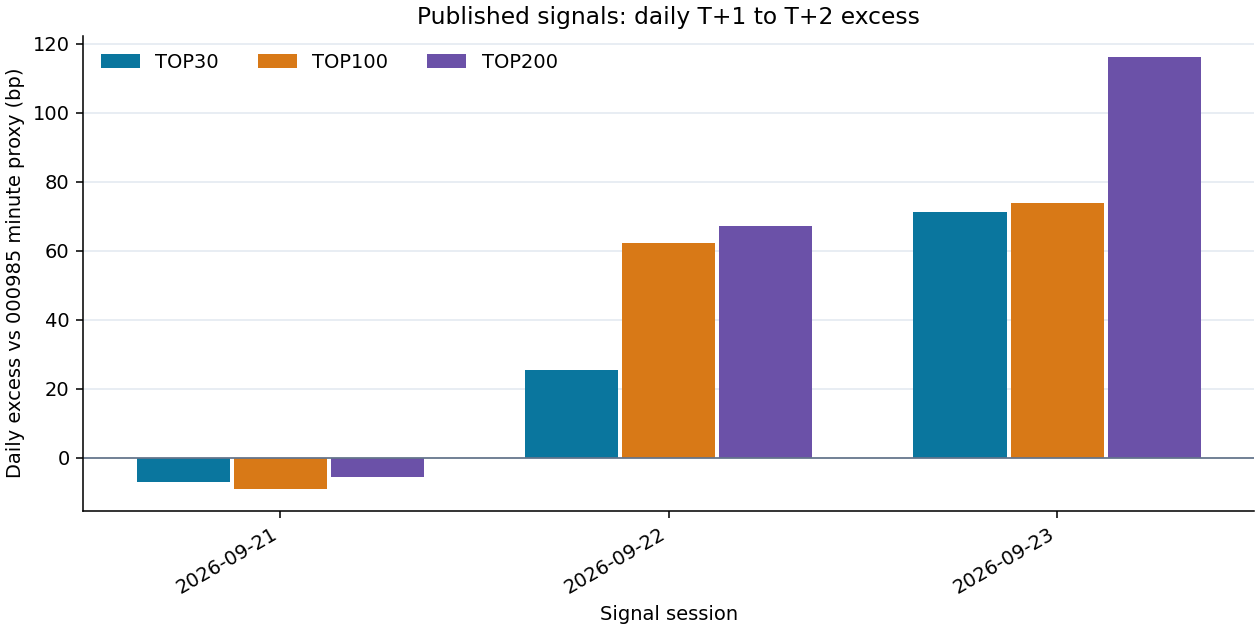
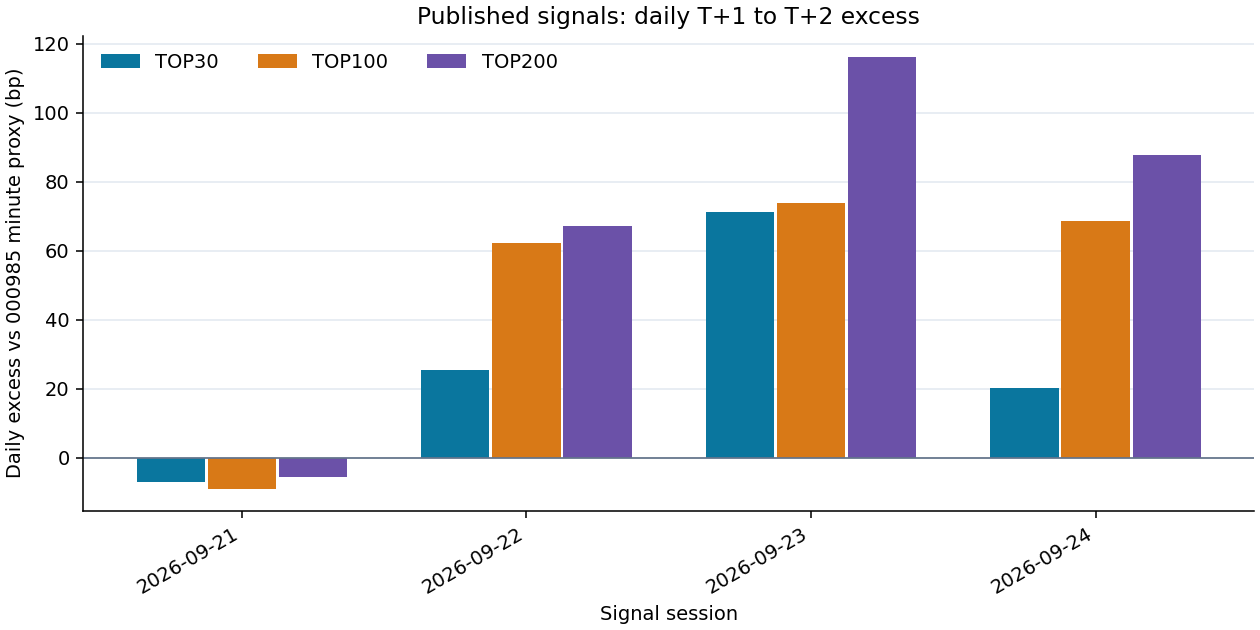
Update published signal performance through 2026-09-29

diff --git a/README.md b/README.md
@@ -17,13 +17,13 @@ CSV 编码为 UTF-8 BOM，按 `signal` 降序排列。
 <!-- PUBLIC_PERFORMANCE_START -->
 ## 已发布信号的历史表现
 
-仅统计本仓库 `signals/YYYY-MM-DD.csv` 已上传且买卖两日行情均完整的信号；截至 **2026-09-28**，共有 **3** 个已完成信号日，另有 **2** 个待结算或数据未齐。样本很短，暂无统计显著性结论。
+仅统计本仓库 `signals/YYYY-MM-DD.csv` 已上传且买卖两日行情均完整的信号；截至 **2026-09-29**，共有 **4** 个已完成信号日，另有 **2** 个待结算或数据未齐。样本很短，暂无统计显著性结论。
 
 | 组合 | 已完成信号日 | 组合累计收益 | 000985同期收益 | 累计超额 |
 |---|---:|---:|---:|---:|
-| TOP30 | 3 | -3.89% | -4.77% | +0.92% |
-| TOP100 | 3 | -3.53% | -4.77% | +1.30% |
-| TOP200 | 3 | -3.03% | -4.77% | +1.82% |
+| TOP30 | 4 | -4.15% | -5.21% | +1.13% |
+| TOP100 | 4 | -3.32% | -5.21% | +2.00% |
+| TOP200 | 4 | -2.63% | -5.21% | +2.72% |
 
 ![TOP30、TOP100、TOP200 累计超额净值](performance/excess_nav.png)
 
@@ -36,6 +36,7 @@ CSV 编码为 UTF-8 BOM，按 `signal` 降序排列。
 | 2026-09-21 | 2026-09-23 | -7.01 | -9.14 | -5.73 |
 | 2026-09-22 | 2026-09-24 | +25.36 | +62.25 | +67.07 |
 | 2026-09-23 | 2026-09-28 | +71.35 | +73.99 | +116.18 |
+| 2026-09-24 | 2026-09-29 | +20.15 | +68.78 | +87.89 |
 
 ![TOP30、TOP100、TOP200 逐日超额](performance/daily_excess.png)
 
